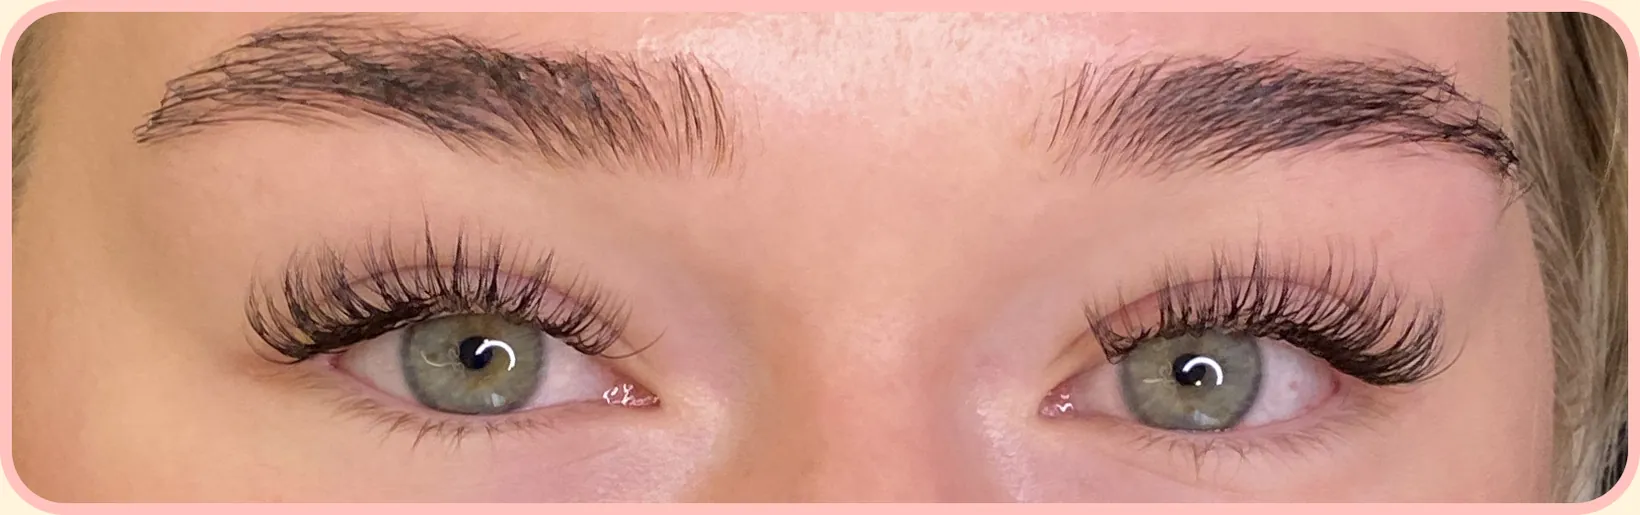
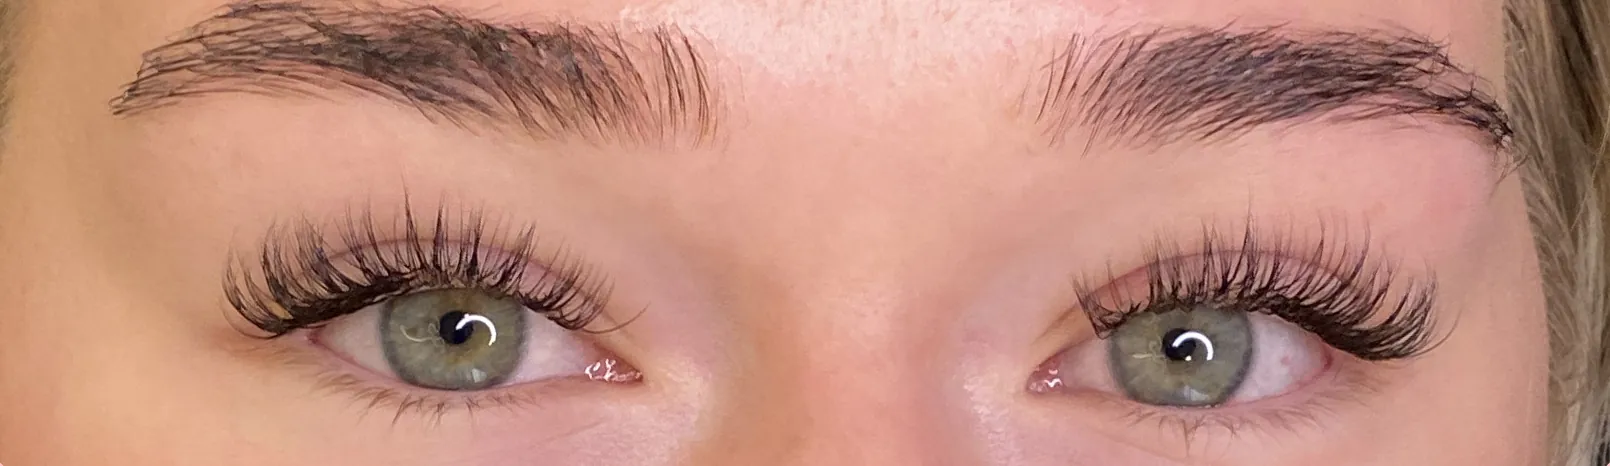
Homepage polish: phone layout, staggered and reversible scroll reveals, review hover, smaller hero portrait, photo crops
Claude-Session: https://claude.ai/code/session_01NgfnHeALrRrJju8XPBGgbq

Changed region(s): [[0.0, 0.0, 1.0, 1.0], [0.1242, 0.4206, 0.4037, 0.9013], [0.6211, 0.4807, 0.9006, 0.9313]]

diff --git a/src/styles/global.css b/src/styles/global.css
@@ -101,10 +101,10 @@ ul { list-style: none; }
 .hero-copy { position: relative; z-index: 2; padding: 0 0 clamp(40px, 6vw, 120px) clamp(22px, 4.8vw, 92px); max-width: 780px; align-self: end; }
 .hero-copy h1 { font-family: var(--serif); font-weight: 400; color: var(--brown); font-size: clamp(27px, 2.5vw, 46px); line-height: 1.18; margin-bottom: 16px; }
 .hero-copy p { font-size: clamp(18px, 1.65vw, 32px); line-height: 1.3; margin-bottom: clamp(20px, 2vw, 34px); }
-.hero-art { position: relative; align-self: end; justify-self: start; z-index: 1; width: min(82%, 640px); margin-left: 4%; }
+.hero-art { position: relative; align-self: end; justify-self: start; z-index: 1; width: min(64%, 500px); margin-left: 12%; }
 .hero-portrait { width: 100%; }
 .stk { position: absolute; pointer-events: none; z-index: 3; }
-.stk-lash { width: clamp(100px, 11vw, 230px); right: -19%; top: 30%; }
+.stk-lash { width: clamp(96px, 10vw, 210px); right: -34%; top: 26%; }
 .stk-flower { width: clamp(84px, 9.5vw, 190px); left: -12%; bottom: -3%; }
 
 /* ---------- services ---------- */
@@ -125,7 +125,7 @@ ul { list-style: none; }
 .stk-brow { width: clamp(100px, 11.4vw, 220px); left: 50%; margin-left: clamp(-110px, -5.7vw, -50px); bottom: clamp(-66px, -3.2vw, -28px); }
 
 /* ---------- marquee ---------- */
-.marquee { background: var(--sage); border-block: var(--line) solid var(--brown); transform: rotate(-2deg); width: 106%; margin: clamp(30px, 3vw, 60px) -3% clamp(10px, 2vw, 40px); overflow: hidden; padding-block: clamp(10px, 1.1vw, 20px); }
+.marquee { background: var(--sage); border-block: 3px solid var(--brown); outline: 1px solid transparent; -webkit-backface-visibility: hidden; backface-visibility: hidden; transform: rotate(-2deg) translateZ(0); width: 106%; margin: clamp(30px, 3vw, 60px) -3% clamp(10px, 2vw, 40px); overflow: hidden; padding-block: clamp(10px, 1.1vw, 20px); }
 .marquee-track { display: flex; width: max-content; animation: marquee 38s linear infinite; }
 .marquee:hover .marquee-track { animation-play-state: paused; }
 .marquee span { font-family: var(--serif); font-size: clamp(30px, 3.6vw, 68px); color: var(--cream); text-transform: uppercase; white-space: nowrap; padding-inline: clamp(18px, 2vw, 40px); }
@@ -146,8 +146,8 @@ ul { list-style: none; }
 .exp-intro { display: grid; grid-template-columns: minmax(0, 0.9fr) minmax(0, 1.1fr); gap: clamp(24px, 5vw, 100px); align-items: start; margin-bottom: clamp(30px, 3.4vw, 64px); }
 .prose p + p { margin-top: 1em; }
 .prose { font-size: clamp(18px, 1.45vw, 28px); }
-.exp-photo { border: var(--line) solid var(--brown); border-radius: clamp(24px, 2.5vw, 48px); overflow: hidden; box-shadow: 16px 16px 0 0 var(--back), 16px 16px 0 var(--line) var(--brown); margin: 0 16px clamp(46px, 4vw, 76px) 0; }
-.exp-photo img { width: 100%; aspect-ratio: 1624 / 500; object-fit: cover; transform: scale(1.05); }
+.exp-photo { border: var(--line) solid var(--brown); border-radius: clamp(24px, 2.5vw, 48px); overflow: hidden; box-shadow: 16px 16px 0 0 var(--back), 16px 16px 0 var(--line) var(--brown); margin: 0 0 clamp(46px, 4vw, 76px) 0; }
+.exp-photo img { width: 100%; aspect-ratio: 1624 / 500; object-fit: cover; }
 .steps { display: grid; grid-template-columns: repeat(3, minmax(0, 1fr)); gap: clamp(20px, 2.3vw, 44px); margin: clamp(22px, 2.4vw, 44px) 0 clamp(40px, 3.6vw, 68px); }
 .step { background: var(--cream); border: var(--line) solid var(--brown); border-radius: clamp(26px, 2.5vw, 48px); padding: clamp(24px, 2.3vw, 44px); box-shadow: 8px 8px 0 var(--brown); }
 .step-top { display: flex; align-items: center; justify-content: space-between; margin-bottom: 14px; min-height: 96px; }
@@ -290,7 +290,7 @@ ul { list-style: none; }
   .hero-wrap { padding-right: 22px; }
   .hero-copy { padding: clamp(96px, 26vw, 150px) 22px 6px; }
   .hero-art { width: min(78%, 360px); margin-top: 8px; }
-  .stk-lash { right: -24%; top: 2%; width: 96px; }
+  .stk-lash { right: -20%; top: 2%; width: 96px; }
   .hero-art { justify-self: center; margin-left: 0; }
   .wordmark { font-size: 17.5vw; }
   .stk-wand { width: 64px; top: -34px; right: -6px; }
@@ -311,10 +311,11 @@ ul { list-style: none; }
   .step-top { min-height: 0; }
   .ba-card { box-shadow: 9px 9px 0 0 var(--back), 9px 9px 0 var(--line) var(--brown); }
   .exp-photo { box-shadow: 9px 9px 0 0 var(--back), 9px 9px 0 var(--line) var(--brown); margin-right: 9px; }
+  .hero-art { width: min(78%, 360px); }
   .exp-photo img { aspect-ratio: 16 / 9; object-position: 30% center; }
   .meet-photo > img:first-child { aspect-ratio: 4 / 4.2; }
   .led { padding: 22px 18px 30px; }
-  .led-photo { aspect-ratio: 4 / 4.4; }
+  .led-photo { aspect-ratio: 16 / 10; object-position: center 20%; }
   /* Find the Studio: two stacked lines sized to the phone, footer colour starts behind the second line */
   .footer { --split: 33vw; }
   .find { white-space: normal; font-size: 24vw; line-height: 0.9; -webkit-text-stroke-width: 4.4vw; }
